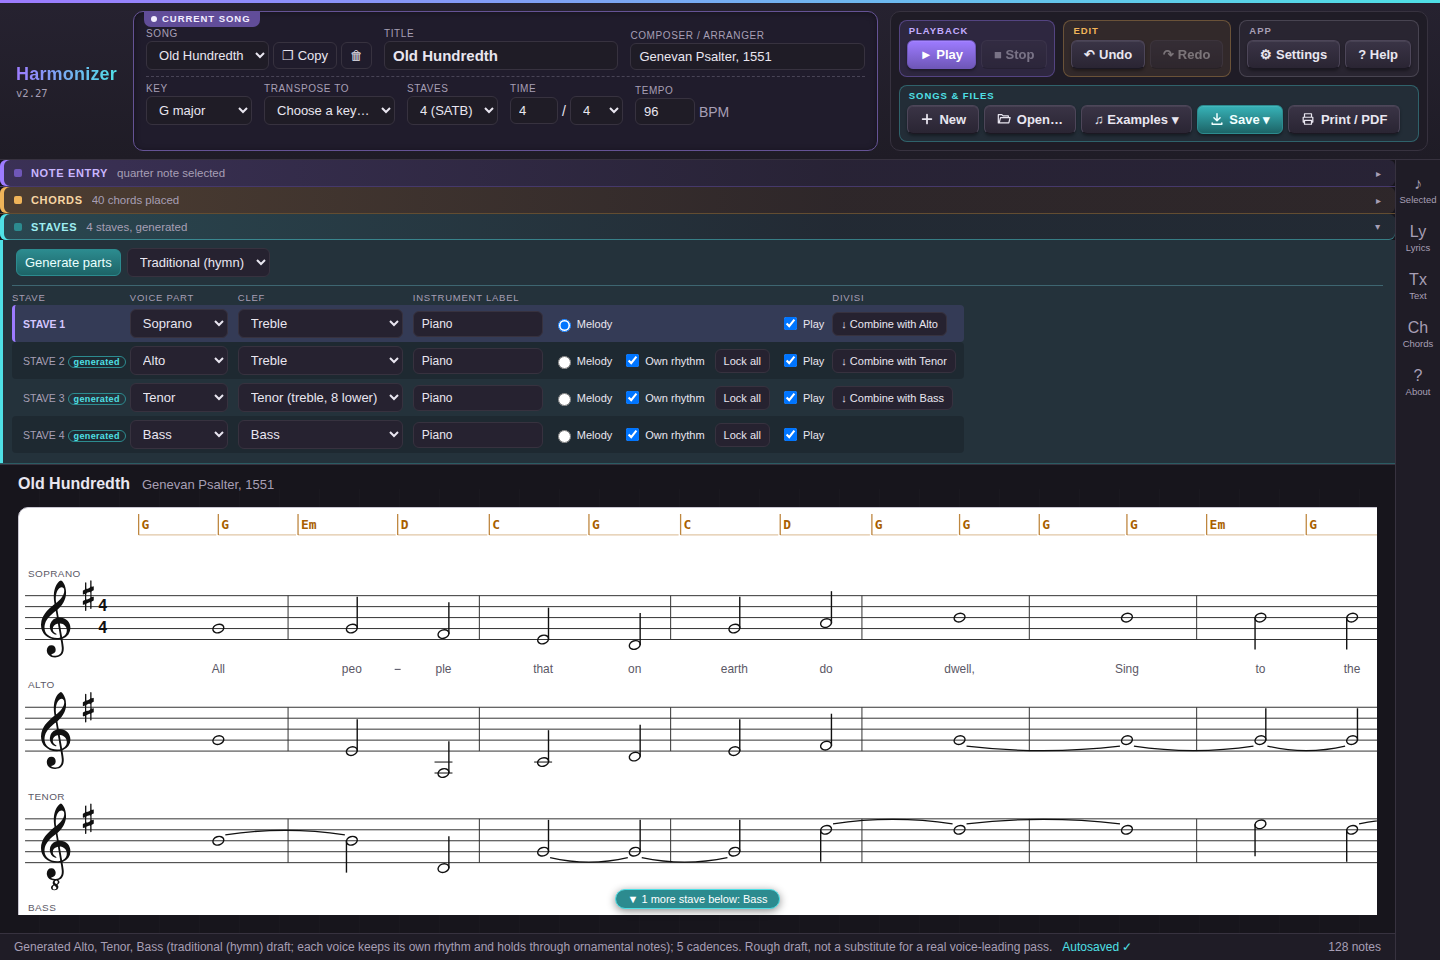
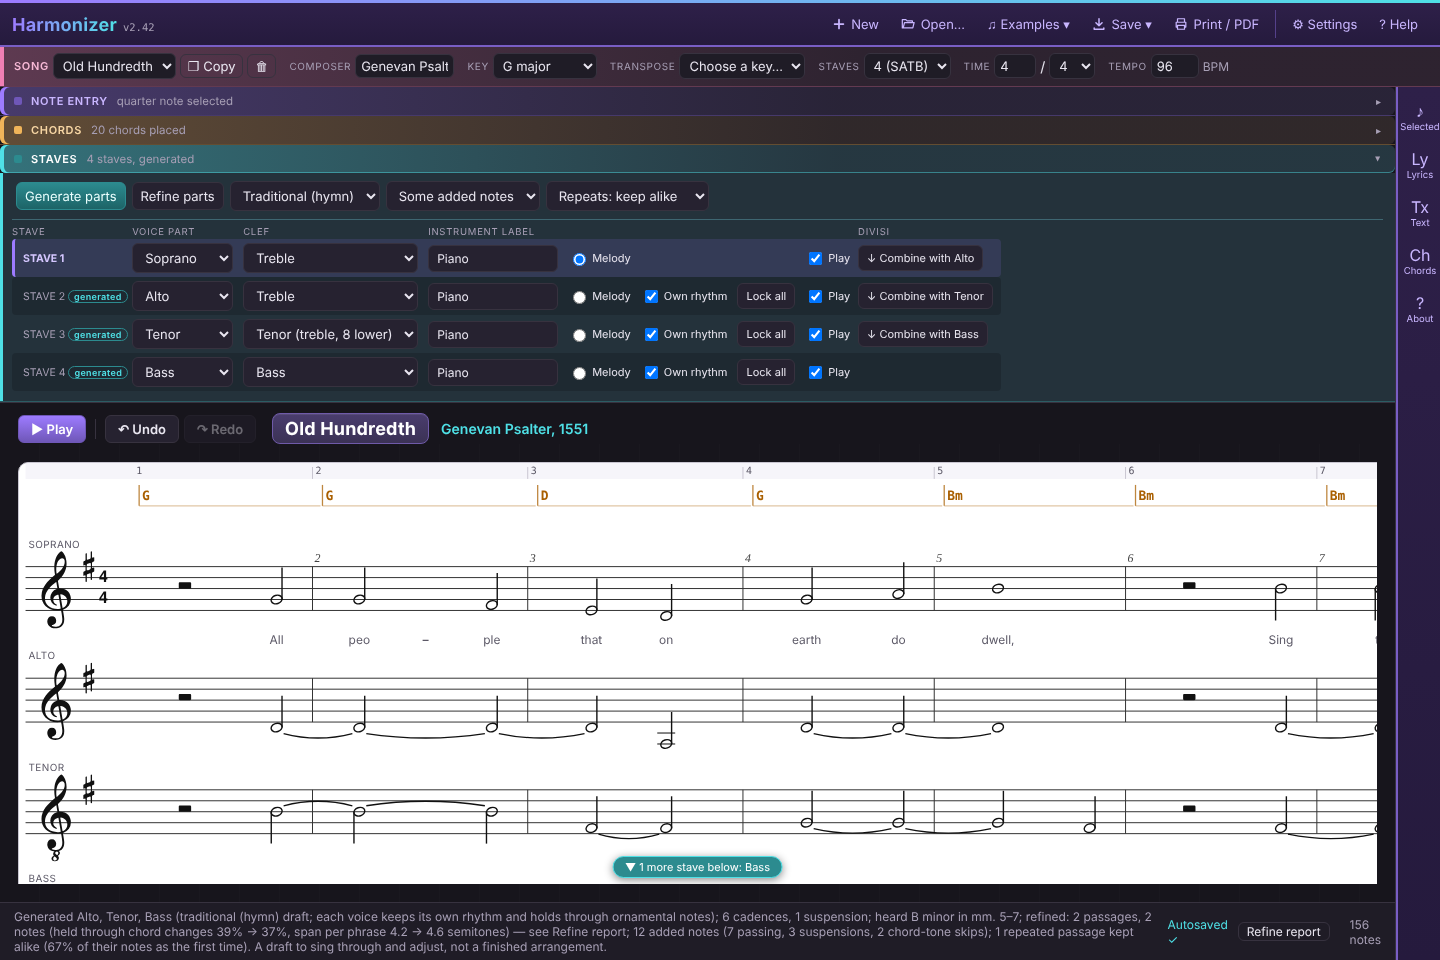
Screenshots retaken from 2.42
All six guide/README screenshots now show the 2.42 header (navbar, song line, Play/Undo/Redo above the score). Quickstart caption updated: Suggest chords puts one chord per measure.

Claude-Session: https://claude.ai/code/session_01QpBxUDH51FNtPzvsyMpMqU

diff --git a/quickstart.html b/quickstart.html
@@ -130,7 +130,7 @@
   <div class="note warn"><p><b>Generate parts is a rough draft,</b> not a voice-leading expert. It replaces every eligible stave's harmony on each run, keeping only the notes you've locked, so do your chord work first.</p></div>
   <p>When a melody note doesn't fit well under the current chord, Generate parts proposes a different one instead of forcing an awkward voicing &mdash; a button appears next to it (e.g. <i>Beat 4: C &rarr; F&sharp;7</i>); click to apply and regenerate, or ignore it.</p>
 
-  <figure class="shot"><img src="docs/screenshots/harmonizer-2-generate.png" alt="Old Hundredth: the melody with lyrics and a chord on each half note, the Staves section open with Generate parts set to Traditional (hymn), and the generated alto and tenor below." width="1440" height="960" loading="lazy"><figcaption>Old Hundredth after Generate parts in the Traditional (hymn) style: one chord per half note in the lane, the tune with its words, and the alto and tenor written for it (the bass is just below).</figcaption></figure>
+  <figure class="shot"><img src="docs/screenshots/harmonizer-2-generate.png" alt="Old Hundredth: the melody with lyrics and a chord in each measure, the Staves section open with Generate parts set to Traditional (hymn), and the generated alto and tenor below." width="1440" height="960" loading="lazy"><figcaption>Old Hundredth after Generate parts in the Traditional (hymn) style: one chord per measure in the lane, the tune with its words, and the alto and tenor written for it (the bass is just below).</figcaption></figure>
 
   <h3>Step 5 &mdash; Key, tempo and time changes (if the song has any)</h3>
   <ol class="steps">
